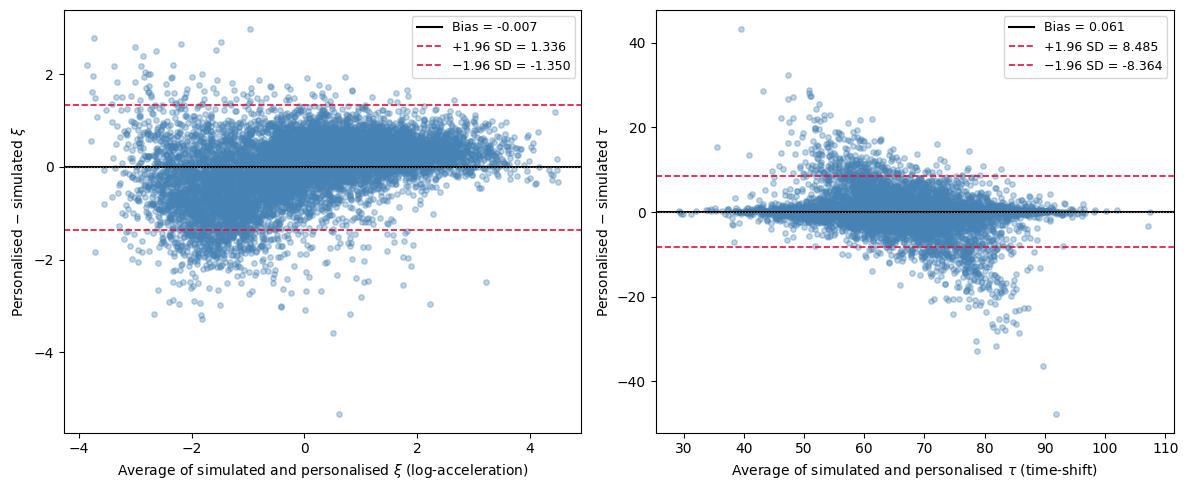
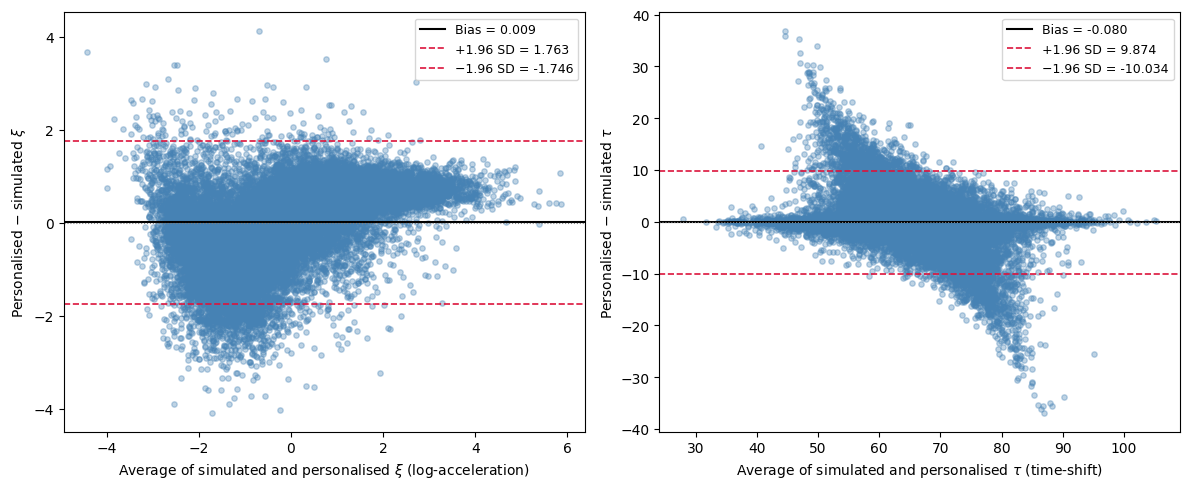
new results for PULSE in notebook, new results section in report

diff --git a/deliverables/report.tex b/deliverables/report.tex
@@ -96,7 +96,7 @@ In this context, Leaspy (LEArning Spatiotemporal Patterns in Python), an open-so
 
 The package is designed for the statistical analysis of longitudinal medical data consisting of repeated observations of patients at different time points. Its principal use cases include: reconstructing the long-term spatiotemporal trajectory of disease evolution from short-term cohort data; positioning individual patients relative to a group-average disease timeline; quantifying the impact of cofactors (sex, genetic mutations, environmental factors) on progression; imputing missing values; predicting future observations; and simulating virtual patient cohorts.
 
-\subsection{Mathematical Background}
+\subsection{Mathematical Background}\label{sec:math-background}
 
 \subsubsection{Nonlinear Mixed-Effects Models}
 
@@ -446,21 +446,27 @@ The \textit{Bland-Altman analysis} provides a graphical complement to the ICC. F
  
 \subsection{Experimental Setup}
 
-The reference model $\theta^*$ is a joint model fitted on the PULSE dataset, with a single event ($L = 1$). The simulation study is carried out in the \textit{random} visit mode with the following study parameters: first-visit offset $\bar{\delta}_f = -2.0$ years and $\sigma_{\delta_f} = 1.0$ year; follow-up duration $\overline{T_f} = 8.0$ years and $\sigma_{T_f} = 2.0$ years; inter-visit interval $\bar{\delta}_v = 0.083$ years and $\sigma_{\delta_v} = 0.042$ years; and a minimum spacing between visits of $0.05$ years. These parameters are deliberately chosen to place each simulated cohort in favourable conditions: the short inter-visit interval and long follow-up produce a dense observation schedule, so that each patient contributes many data points. This abundance of information per individual reduces the number of MCMC-SAEM iterations required to reach convergence both at the fitting and at the personalisation stage. 
+The reference model $\theta^*$ is a joint model fitted on the PULSE dataset, with a single event ($L = 1$). The simulation study is carried out in the \textit{random} visit mode with the following study parameters: first-visit offset $\bar{\delta}_f = -2.0$ years and $\sigma_{\delta_f} = 1.0$ year; follow-up duration $\overline{T_f} = 6.0$ years and $\sigma_{T_f} = 2.0$ years; inter-visit interval $\bar{\delta}_v = 0.083$ years and $\sigma_{\delta_v} = 0.042$ years; and a minimum spacing between visits of $0.05$ years. These parameters are deliberately chosen to place each simulated cohort in favourable conditions: the short inter-visit interval and long follow-up produce a dense observation schedule, so that each patient contributes many data points. This abundance of information per individual reduces the number of MCMC-SAEM iterations required to reach convergence both at the fitting and at the personalisation stage. 
 
-Each synthetic cohort contains $N = 100$ patients, and the experiment is repeated $M = 100$ times. Each fresh model is fitted using the MCMC-SAEM algorithm with $N_{\mathrm{iter}} = 3000$ iterations, and the subsequent personalisation step runs for $N_{\mathrm{perso}} = 500$ iterations. Naturally, the computational cost of this procedure is substantial, as it requires fitting $M$ separate joint models from scratch. Better results could be obtained by increasing $N$ and $M$, but this would further increase the computational burden. The chosen values of $N$ and $M$ represent a compromise between statistical power and practical feasibility, while still providing a robust assessment of the model's self-consistency.
-\todo{changer avec les nouveaux résultats}
+Each synthetic cohort contains $N = 500$ patients, and the experiment is repeated $M = 50$ times. Each fresh model is fitted using the MCMC-SAEM algorithm with $N_{\mathrm{iter}} = 30000$ iterations, and the subsequent personalisation step runs for $N_{\mathrm{perso}} = 5000$ iterations. Naturally, the computational cost of this procedure is substantial, as it requires fitting $M$ separate joint models from scratch. Better results could be obtained by increasing $N$ and $M$, but this would further increase the computational burden. The chosen values of $N$ and $M$ represent a compromise between statistical power and practical feasibility, while still providing a robust assessment of the model's self-consistency.
+
 
 \subsection{Results and Interpretation}
-\todo{changer avec les nouveaux résultats}
-The results of the simulation study are summarised in Table~\ref{tab:population_recovery} for population parameters. The distributions of the Relative Estimation Error across the $M = 100$ repetitions are displayed in Figure~\ref{fig:ree_all}, while the quality of individual parameter recovery is examined in detail through the scatter plots of Figure~\ref{fig:param_comparison} and the Bland-Altman plots of Figure~\ref{fig:bland-altman}.
+The results of the simulation study are summarised in Table~\ref{tab:population_recovery} for population parameters. The distributions of the Relative Estimation Error across the $M$ repetitions are displayed in Figure~\ref{fig:ree_all}, while the quality of individual parameter recovery is examined in detail through the scatter plots of Figure~\ref{fig:param_comparison} and the Bland-Altman plots of Figure~\ref{fig:bland-altman}. 
 
-\paragraph{Population parameter recovery.}
-The population reference time $t_0$ is among the best recovered parameters, with a relative bias of $0.072\%$ and a RRMSE of $2.082\%$. Its REE distribution in Figure~\ref{fig:ree_all} is centred almost exactly on zero with a tight interquartile range, indicating that it is well identified in this simulation setting. The observational noise standard deviation $\sigma$ is the most precisely estimated parameter in the study, with an RSE of $0.003$, a relative bias of $-3.897\%$, and a RRMSE of $3.910\%$. The near-equality of these last two quantities indicates that almost all the estimation error is attributable to a stable, slightly negative systematic offset rather than to variability across repetitions, a pattern visible in Figure~\ref{fig:ree_all} as a tight, uniformly sub-zero distribution. The time-shift standard deviation $\sigma_\tau$ and the trajectory parameters $\tilde{v}_0$ and $\tilde{g}$ are also well recovered, with relative biases in the range of $3.6\%$ to $7.4\%$ and RRMSEs below $11\%$; their REE distributions remain within moderate bounds across almost all repetitions, indicating that the main longitudinal sub-model parameters are reliably estimated under the dense visit schedules of this study.
+\subsubsection{Population parameter recovery.}
 
-The log-acceleration standard deviation $\sigma_\xi$ is overestimated by $27\%$ on average, with a RRMSE of $29.8\%$ and an RSE of $0.10$. One possible explanation is that, at this sample size, part of the unexplained individual variability is absorbed into the between-subject variance, inflating the recovered population standard deviation. The Weibull survival parameters $\tilde{\nu}$ and $\tilde{\rho}$ are both underestimated, with relative biases of $-18.1\%$ and $-28.2\%$ respectively. Several plausible factors may contribute to the difficulty of identifying these parameters. First, survival data are intrinsically sparse: with $N = 100$ patients, a substantial fraction of whom are right-censored, the effective information available to the survival sub-model is far smaller than that available to the longitudinal one. Second, the two Weibull parameters may be partially compensatory in the likelihood, so that changes in scale can be offset to some extent by changes in shape, producing unstable joint estimates. Third, the shape parameter $\rho$ is generally harder to identify, as it controls the functional form of the hazard acceleration and requires observing a sufficiently broad spread of event times; the RSE of $\tilde{\rho}$ (0.443) being about four times that of $\tilde{\nu}$ (0.113) is consistent with this additional difficulty.
+Before turning to the numerical results, two parameters require special treatment: the mixing coefficient matrix $\beta$ and the source-to-survival coupling matrix $\boldsymbol{\zeta}$. As introduced in the mathematical background in section \ref{sec:math-background}, the space shifts are defined as $\mathbf{w}_i = \mathbf{A}\mathbf{s}_i$, where the columns of the mixing matrix $\mathbf{A}$ are constructed from the free coefficients $\beta$, and the survival shifts entering the Weibull reparametrisation \eqref{eq:nu-rep} are $(\boldsymbol{\zeta}^\top \mathbf{s}_i)_l$. Both quantities are linear in the latent sources $\mathbf{s}_i$, and are therefore invariant under any rotation $R \in \mathrm{O}(K)$ of the source space: replacing $\mathbf{s}_i \to R\mathbf{s}_i$, $\mathbf{A} \to \mathbf{A}R^\top$, and $\boldsymbol{\zeta} \to R\boldsymbol{\zeta}$ leaves all model predictions, and hence the entire likelihood, unchanged. As a consequence, individual components of $\beta$ and $\boldsymbol{\zeta}$ are not separately identifiable: they can vary arbitrarily across simulation repetitions through orthogonal rotations of the source space without any modification to the data attachment. Reporting component-wise REE for these parameters is therefore meaningless. The quantities that are invariant to such rotations are the Frobenius norm $\|\beta\|_F$ for the mixing matrix, since Frobenius norm is unitarily invariant, and the Euclidean norm $\|\boldsymbol{\zeta}\|$ for the coupling vector. These scalar summaries are the estimands reported in Table~\ref{tab:population_recovery}.
 
-Finally, the space-shift mixing coefficients $\beta$ and the source-to-survival coupling weights $\zeta$ present the largest relative errors, with RRMSEs of $212\%$ and $117\%$ respectively. These figures, however, must be interpreted with caution. The true mean of $\beta$ is $0.00858$, a value so close to zero that even a small absolute estimation error yields a very large relative one. The metric therefore overstates the practical difficulty of recovering this parameter. More fundamentally, both $\beta$ and $\zeta$ encode second-order effects that are difficult to separate from the dominant signal at moderate sample sizes: the space-shift coefficients require the simultaneous observation of consistent inter-biomarker ordering differences across many patients, while $\zeta$ requires resolving a systematic link between the latent source patterns $\mathbf{s}_i$ and the individual event hazard beyond the shared disease pace $e^{\xi_i}$. For $\zeta$, the combination of a very large relative bias and a very high RSE suggests substantial instability in this experimental regime. Overall, these results are consistent with known identifiability difficulties in high-dimensional joint models and would be expected to improve with larger sample sizes, although this was not evaluated here.
+Table~\ref{tab:population_recovery} and Figure~\ref{fig:ree_all} display the performance measures for all population parameters, grouped by quality of recovery. The parameters most accurately recovered are those governing the average disease trajectory and its longitudinal variability. The reference disease time $t_0$ achieves a relative bias of $-0.13\%$ and an RRMSE of $0.94\%$, the lowest of all scalar parameters. This exceptional precision reflects the fact that $t_0$ is identified as the central tendency of all individual time-shift distributions simultaneously: with $N = 500$ patients each contributing several longitudinal observations, the effective sample size for this estimand is very large and finite-sample fluctuations are effectively averaged out. The observation noise standard deviation $\sigma$ is similarly well identified ($\mathrm{RB} = -4.19\%$, $\mathrm{RRMSE} = 4.19\%$, $\mathrm{RSE} = 0.002$), because it is estimated from within-patient residuals across the entire dataset and its RSE is the smallest of all reported parameters, reflecting negligible repetition-to-repetition variability. The mean log-initial position $\tilde{g}$ is recovered with $\mathrm{RB} = -3.70\%$ and $\mathrm{RRMSE} = 4.24\%$: with dense observations, the sigmoidal trajectory shape tightly constrains the plateau levels of each clinical score. The inter-individual time-shift dispersion $\sigma_\tau$ is recovered with modest bias ($\mathrm{RB} = -4.18\%$) and slightly larger RRMSE ($5.69\%$), as between-subject spread requires aggregating information across individuals rather than across visits. Finally, the Frobenius norm $\|\beta\|_F$ is well recovered ($\mathrm{RB} = +2.33\%$, $\mathrm{RRMSE} = 3.87\%$), confirming that the total energy of the space-shift representation is consistently estimable even though the orientation of $\beta$ in source space is not identifiable.
+
+The mean log-progression speed $\tilde{v}_0$ and the Weibull shape parameter $\tilde{\rho}$ both exhibit relative biases of approximately $-18\%$ and RRMSEs in the range $18$--$23\%$. The systematic underestimation of $\tilde{v}_0$ is partly structural. This parameter controls the shared disease progression speed and enters the latent disease age $\psi_i(t)$ multiplicatively with $e^{\xi_i}$. During the MCMC-SAEM iterations, the centering operation applied to $\xi_i$ transfers any residual drift of the empirical mean of $\xi$ into an update of $\log v_0$ in the opposite direction. In finite samples, this centering is imperfect and the resulting drift propagates as a persistent downward bias in $\tilde{v}_0$. For $\tilde{\rho}$, the shape of the Weibull hazard is identified exclusively from the temporal distribution of observed events and censoring patterns. With only one event per patient and a censoring fraction that depends on follow-up duration, the effective statistical information about the hazard shape is limited; the corresponding RSE of $0.188$ is the largest among all parameters except $\|\boldsymbol{\zeta}\|$, indicating substantial repetition-to-repetition variability that compounds the systematic underestimation visible in Figure~\ref{fig:ree_all}.
+
+The parameters estimated with the greatest difficulty are $\sigma_\xi$, $\tilde{\nu}$, and $\|\boldsymbol{\zeta}\|$. The log-acceleration standard deviation $\sigma_\xi$ is the most severely biased parameter in the study, with $\mathrm{RB} = +49.16\%$ and $\mathrm{RRMSE} = 49.56\%$, corresponding to a systematic overestimation. Two distinct mechanisms contribute to this bias. First, in the logistic model, the log-acceleration $\xi_i$ and the time shift $\tau_i$ are only partially separated by the data: a patient who progresses rapidly (large positive $\xi_i$) and one who had an early onset (small $\tau_i$) produce similar longitudinal observations over a finite follow-up window. Part of the temporal heterogeneity that is truly due to $\tau_i$ is therefore absorbed into $\xi_i$ by the estimation procedure, inflating the recovered variance. Second, the M-step estimate of $\sigma_\xi^2$ aggregates the posterior second moments of all $\xi_i$, and these posterior second moments include irreducible posterior uncertainty in addition to genuine inter-individual variance. This posterior inflation effect is attenuated but not eliminated when longitudinal data are dense. Notably, the RSE of $\sigma_\xi$ is only $0.043$, comparable to those of well-recovered parameters: the overestimation is stable and systematic across repetitions rather than being driven by occasional outlier simulations, as confirmed by the tightly located box in Figure~\ref{fig:ree_all}.
+
+The Weibull scale parameter $\tilde{\nu}$ is overestimated by $-35.72\%$ in relative terms. This bias is directly linked to the overestimation of $\sigma_\xi$ through the identifiability constraint implemented in the MCMC-SAEM centering step, which simultaneously adjusts $\log v_0$, $\xi_i$, and $n\_\log\_\nu$ by the empirical mean of the current $\xi$ realizations. When $\sigma_\xi$ is overestimated, the empirical spread of $\xi_i$ is inflated, and the resulting centering shift is amplified, propagating a systematic negative shift into $n\_\log\_\nu = -\log\nu$. The two biases are therefore not independent: the joint misestimation of $(\sigma_\xi, \tilde{\nu})$ reflects a single underlying confounding between inter-individual progression speed variability and the Weibull time scale.
+
+Finally, $\|\boldsymbol{\zeta}\|$ presents a contrasting profile: its mean relative bias is only $+6.08\%$, but its RRMSE reaches $38.23\%$ and its RSE of $0.359$ is by far the largest of all reported parameters. This dissociation between low mean bias and high variability reflects the nature of $\boldsymbol{\zeta}$ as a second-order coupling parameter. It modulates the influence of individual biomarker ordering patterns $\mathbf{s}_i$ on the event-specific hazard through the survival shift $(\boldsymbol{\zeta}^\top \mathbf{s}_i)_l$. When the true coupling is weak, as in the reference model ($\|\boldsymbol{\zeta}\|^* = 0.481$), the likelihood surface in the direction of $\boldsymbol{\zeta}$ is nearly flat, and the optimizer converges to different local solutions across repetitions without materially changing the data attachment. The norm $\|\boldsymbol{\zeta}\|$ is recoverable on average, but its estimate is highly volatile at the level of individual simulations, suggesting that this parameter is close to the practical limit of identifiability at the considered sample size.
 
 \begin{table}[htbp]
 \centering
@@ -469,17 +475,18 @@ Finally, the space-shift mixing coefficients $\beta$ and the source-to-survival 
 \begin{tabular}{lrrrrr}
 
 Parameter & $\theta^{*}$ (reference)& $\bar{\hat{\theta}}$ (estimate)& RB (\%) & RRMSE (\%) & RSE \\
-\hline
-$\beta$ (mean)            & 0.00858  & 0.00107  & -87.535 & 212.287 & 15.5936 \\
-$\tilde{g}$ (mean)        & 0.49849  & 0.46148  & -7.424  & 10.373  & 0.0786 \\
-$\tilde{\rho}$            & 0.67007  & 0.48141  & -28.155 & 42.351  & 0.4426 \\
-$\tilde{v}_0$ (mean)      & -4.15871 & -4.44446 & -6.871  & 8.690   & 0.0500 \\
-$\tilde{\nu}$             & -1.91844 & -2.26636 & -18.135 & 22.449  & 0.1126 \\
-$\sigma$                  & 0.39104  & 0.37580  & -3.897  & 3.910   & 0.0033 \\
-$t_0$                     & 66.07919 & 66.12698 & 0.072   & 2.082   & 0.0209 \\
-$\sigma_{\tau}$           & 10.36347 & 9.99169  & -3.587  & 7.826   & 0.0725 \\
-$\sigma_{\xi}$            & 1.34546  & 1.70900  & 27.020  & 29.809  & 0.0996 \\
-$\zeta$ (mean)            & -0.23890 & -0.01580 & 93.387  & 116.725 & 10.6431 \\
+\hline        
+$t_0$                    & $66.079$ & $65.992$ & $-0.13$ & $0.94$ & $0.010$ \\
+$\sigma$                 & $0.391$  & $0.375$  & $-4.19$ & $4.19$ & $0.002$ \\
+$\tilde{g}$ (mean)       & $0.499$  & $0.480$  & $-3.70$ & $4.24$ & $0.022$ \\
+$\sigma_{\tau}$          & $10.363$ & $9.931$  & $-4.18$ & $5.69$ & $0.041$ \\
+$\|\beta\|_F$            & $0.305$  & $0.312$  & $+2.33$ & $3.87$ & $0.031$ \\
+$\tilde{v}_0$ (mean)     & $-4.159$ & $-4.905$ & $-17.94$ & $18.22$ & $0.027$ \\
+$\tilde{\rho}$           & $0.670$  & $0.551$  & $-17.74$ & $23.44$ & $0.188$ \\
+$\tilde{\nu}$            & $-1.918$ & $-2.604$ & $-35.72$ & $36.19$ & $0.044$ \\
+$\sigma_{\xi}$           & $1.345$  & $2.007$  & $+49.16$ & $49.56$ & $0.043$ \\
+$\|\zeta\|$              & $0.481$  & $0.511$  & $+6.08$  & $38.23$ & $0.359$ \\
+
 \hline
 \end{tabular}
 \end{table}
@@ -491,10 +498,13 @@ $\zeta$ (mean)            & -0.23890 & -0.01580 & 93.387  & 116.725 & 10.6431 \\
   \label{fig:ree_all}
 \end{figure}
 
-\paragraph{Individual random effect recovery.}
-Figures~\ref{fig:param_comparison} and~\ref{fig:bland-altman} together provide a detailed assessment of individual parameter recovery by the personalisation algorithm. The ICC(3,1) values, averaged across the $M = 100$ repetitions, are $0.894 \pm 0.026$ for $\xi$ and $0.903 \pm 0.050$ for $\tau$. Both values indicate strong absolute agreement between the personalised and simulated parameters, well above the conventional threshold of $0.75$ for good agreement. The slightly higher standard deviation of the ICC for $\tau$ across repetitions (0.050 versus 0.026 for $\xi$) suggests that the recovery of the time shift is somewhat more sensitive to the particular realisation of the synthetic cohort. In both cases, the Pearson correlation modestly exceeds the ICC ($0.912 \pm 0.021$ versus $0.894 \pm 0.026$ for $\xi$; $0.916 \pm 0.038$ versus $0.903 \pm 0.050$ for $\tau$), a systematic gap that is consistent across repetitions and indicates a mild distortion between true and estimated values that the ICC penalises but the Pearson correlation ignores.
+\subsubsection{Individual random effect recovery.}
 
-This distortion is made explicit in Figure~\ref{fig:param_comparison}. For $\xi$, the linear regression line is slightly steeper than the identity line, indicating that the personalisation algorithm marginally amplifies the true spread: patients with strongly positive or negative log-accelerations tend to receive estimates that are somewhat more extreme than their true values. This pattern is consistent with the upward bias in $\hat{\sigma}_{\xi}$ documented above: if the fitted prior variance is overestimated, the posterior regularisation is weaker than it should be, producing less shrinkage toward zero and a correspondingly expanded distribution of estimated log-accelerations. For $\tau$, the regression line is shallower than the identity, revealing the classic shrinkage pattern toward the prior mean: patients with a very early true disease onset tend to have their onset underestimated, while patients with a very late onset tend to have it overestimated. This is the expected consequence of Bayesian estimation under a Gaussian prior centred near the population mean; when the individual longitudinal data are not sufficiently informative to dominate the prior, the posterior is pulled back toward that central value.
+The recovery of individual random effects $(\xi_i, \tau_i)$ is assessed through the ICC(3,1) and Bland-Altman analyses pooled across the $M$ repetitions. Scatter plots of personalised against true values are shown in Figure~\ref{fig:param_comparison}, and the corresponding Bland-Altman plots in Figure~\ref{fig:bland-altman}.
+
+For the log-acceleration factor $\xi_i$, the mean ICC(3,1) across repetitions is $0.841 \pm 0.013$ and the corresponding Pearson correlation is $0.877 \pm 0.012$. For the time-shift $\tau_i$, the ICC(3,1) is $0.856 \pm 0.019$ and the Pearson correlation is $0.874 \pm 0.014$. Both statistics are reported because, as discussed in Section~\ref{sec:metrics}, the Pearson correlation is insensitive to affine shifts of the estimates and may overstate the quality of agreement when a systematic rescaling is present. Here, the ICC values of approximately $0.85$ for both parameters confirm that the personalisation procedure consistently identifies the relative ordering of patients along the disease timeline.
+
+The scatter plots in Figure~\ref{fig:param_comparison} reveal some distortions. For $\xi_i$ (left panel), the linear regression line has a slope greater than one. Extreme values of the log-acceleration factor are systematically amplified in the personalised estimates, producing an expansion of the estimated distribution relative to the true one. This expansion is the individual-level counterpart of the population-level overestimation of $\sigma_\xi$: the fitted model assigns a larger variance to the prior on $\xi_i$ and thus, the posterior for each individual is wider and its mean is pulled further from zero, inflating the apparent spread. For $\tau_i$ (right panel), the regression slope is less than one, producing a contraction of the estimated time-shifts toward the population mean $t_0$. This is a standard Bayesian shrinkage effect, whereby the prior $\tau_i \sim \mathcal{N}(t_0, \sigma_\tau^2)$ regularises individual estimates toward the population center. This effect is even more pronounced for patients with few observations or short follow-up whose individual data are less informative about their absolute position on the disease timeline.
 
 \begin{figure}[htbp]
   \centering
@@ -503,7 +513,11 @@ This distortion is made explicit in Figure~\ref{fig:param_comparison}. For $\xi$
   \label{fig:param_comparison}
 \end{figure}
 
-The Bland-Altman plots in Figure~\ref{fig:bland-altman} confirm and refine these observations. For $\xi$, the bias is $-0.007$, negligible in absolute terms, and the limits of agreement are $[-1.350, +1.336]$. For $\tau$, the bias is $+0.061$ years, again negligible relative to the scale of $\sigma_\tau \approx 10$ years, and the limits of agreement span approximately $[-8.4, +8.5]$ years. For both parameters, the mean bias is therefore close to zero, indicating little overall offset at the population level. At the same time, the structure of the point clouds shows that this absence of global bias does not imply perfect agreement at all values. In particular, the Bland-Altman plot for $\tau$ displays a marked mean-dependent pattern consistent with the shrinkage already visible in Figure~\ref{fig:param_comparison}: extreme time shifts tend to be pulled back toward the centre of the distribution. The near-symmetry of the limits of agreement around zero confirms that the personalisation procedure does not introduce a large systematic offset on average, while the residual structure of the plots reveals conditional bias, especially for $\tau$.
+The Bland-Altman analysis in Figure~\ref{fig:bland-altman} completes this picture by examining the distribution of individual errors. For $\xi_i$ (left panel), the bias is negligible at $+0.009$, confirming that the personalisation step introduces no systematic offset in the estimated log-acceleration on average. No systematic trend is visible around the mean line, indicating the absence of proportional bias, the personalisation errors for $\xi_i$ do not grow with the magnitude of the true value.
+
+For $\tau_i$ (right panel), the bias is $-0.080$ years, which is practically negligible relative to the inter-individual standard deviation $\sigma_\tau^* = 10.4$ years. The absence of a clear funnel-shaped or monotone pattern around the zero line indicates that the magnitude of the personalisation error does not grow systematically with the magnitude of $\tau_i$, so there is no evidence of proportional bias. 
+
+Taken together, these results establish that the joint simulation and estimation pipeline is self-consistent: population parameters governing the longitudinal sub-model are recovered with good accuracy, individual parameters are personalised with meaningful concordance, and systematic biases remain confined to the survival-related and coupling parameters where finite-sample identifiability is inherently more challenging.
 
 \begin{figure}[htbp]
   \centering